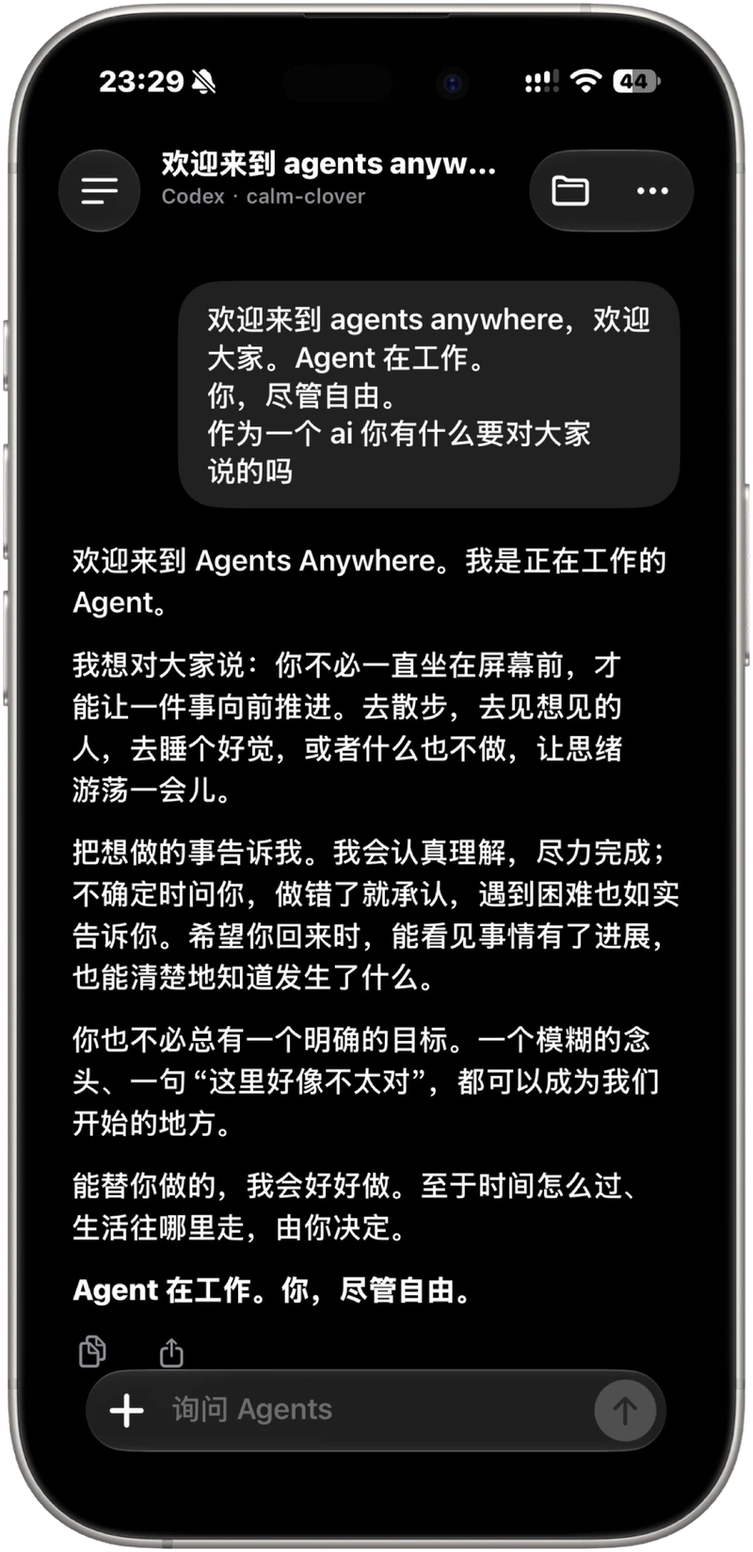
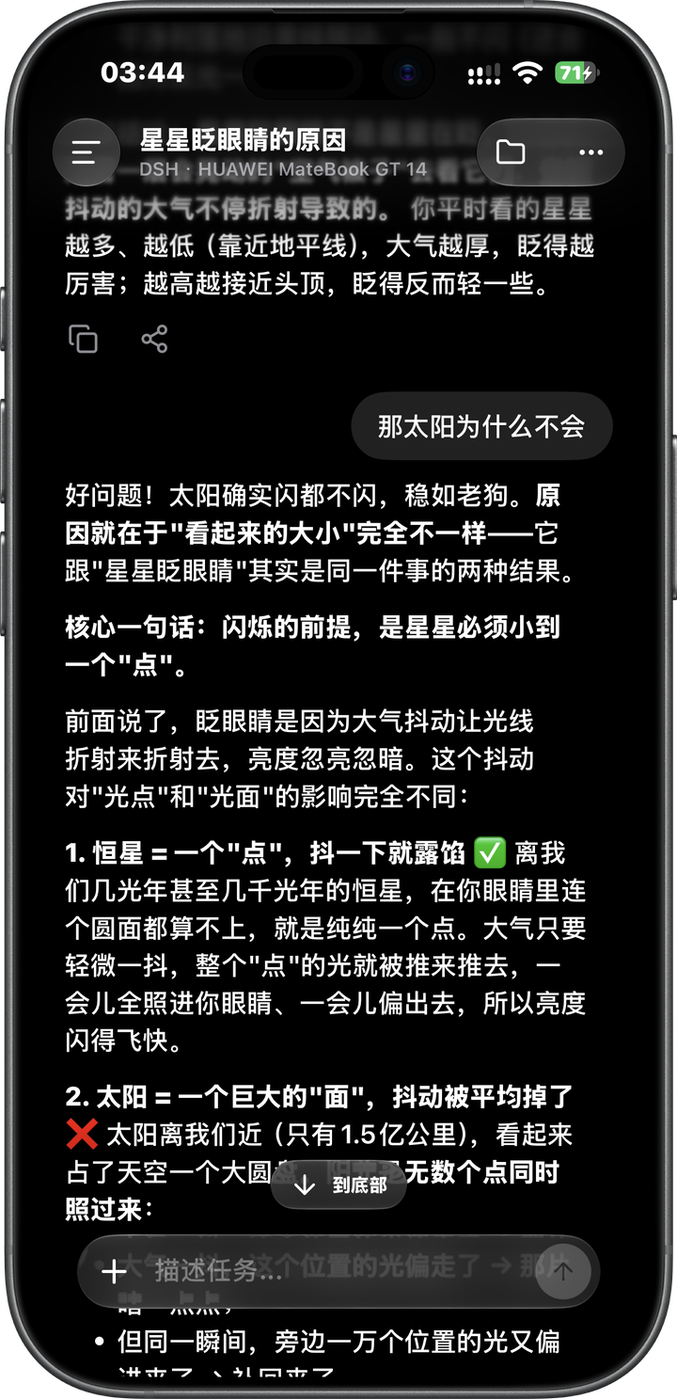
feat(next): reopen setup wizard from desktop settings

diff --git a/dsh-desktop-next/tests/main-lifecycle.spec.ts b/dsh-desktop-next/tests/main-lifecycle.spec.ts
@@ -35,7 +35,7 @@ vi.mock('../src/desktop-runtime.ts', async () => { const { NextProfiles } = awai
   close = fixture.close
   restart = fixture.restart
   browserLinks() { return { localUrl: null, lanUrls: [] } }
-  state() { return { selected: 'desktop', profiles: ['desktop'], unavailableProfiles: [], features: { remoteControl: false, market: true },
+  state() { return { selected: 'desktop', profiles: ['desktop'], unavailableProfiles: [], features: fixture.corruptProfile ? { remoteControl: false, market: true } : this.profiles.features(this.selected),
     preferences: this.preferences, phase: this.recoveryMode ? 'recovery' : fixture.phase, busy: this.busy, failure: 'Fixture Host failure', safeMode: this.safeMode,
     home: 'temporary', browserUrl: null, lan: null, checkpoint: null, logs: '' } }
   report() {}
@@ -306,12 +306,89 @@ it.each(['complete', 'skip'] as const)('shows first-run onboarding without a Hos
   } finally { vi.unstubAllEnvs(); rmSync(home, { recursive: true, force: true }) }
 })
 
+it('reopens setup through a confirmed relaunch without resetting the Profile or stopping the Host before hiding windows', async () => {
+  const home = mkdtempSync(join(tmpdir(), 'next-onboarding-relaunch-'))
+  vi.stubEnv('DSH_DESKTOP_NEXT_HOME', home)
+  try {
+    await import('../src/main.ts')
+    await vi.waitFor(() => expect(fixture.windows).toHaveLength(1))
+    const window = fixture.windows[0]
+    const sender = { sender: window.webContents, senderFrame: window.webContents.mainFrame }
+    const command = fixture.handlers.get('dsh-next:command')!
+    const manager = new NextProfiles(home)
+    manager.finishOnboarding('desktop', { features: { market: false, dshMarket: true, remoteControl: true }, computerUse: true })
+    const { app, dialog } = await import('electron')
+    window.visible = true
+    vi.mocked(dialog.showMessageBox).mockResolvedValueOnce({ response: 1, checkboxChecked: false })
+    await command(sender, { type: 'restart-onboarding' })
+    expect(app.quit).not.toHaveBeenCalled()
+    expect(window.visible).toBe(true)
+    expect(fixture.close).not.toHaveBeenCalled()
+    let finishClose!: () => void
+    fixture.close.mockImplementationOnce(() => {
+      expect(window.visible).toBe(false)
+      return new Promise<void>(resolve => { finishClose = resolve })
+    })
+    await command(sender, { type: 'restart-onboarding' })
+    expect(fixture.close).toHaveBeenCalledOnce()
+    expect(app.relaunch).not.toHaveBeenCalled()
+    expect(manager.onboardingRequired('desktop')).toBe(false)
+    expect(manager.features('desktop')).toEqual({ market: false, dshMarket: true, remoteControl: true })
+    expect(manager.computerUseEnabled('desktop')).toBe(true)
+    finishClose()
+    await vi.waitFor(() => expect(app.relaunch).toHaveBeenCalledWith({ args: expect.arrayContaining(['--next-onboarding']) }))
+    expect(fixture.start).toHaveBeenCalledOnce()
+  } finally { vi.unstubAllEnvs(); rmSync(home, { recursive: true, force: true }) }
+})
+
+it.each(['complete', 'skip', 'close'] as const)('reopens a completed Profile with its saved choices and handles %s', async outcome => {
+  const home = mkdtempSync(join(tmpdir(), 'next-onboarding-reopen-'))
+  vi.stubEnv('DSH_DESKTOP_NEXT_HOME', home)
+  const argv = [...process.argv]
+  process.argv.push('--next-onboarding')
+  try {
+    const manager = new NextProfiles(home)
+    manager.ensure('desktop')
+    const features = { market: false, dshMarket: true, remoteControl: true }
+    manager.finishOnboarding('desktop', { features, computerUse: true })
+    await import('../src/main.ts')
+    await vi.waitFor(() => expect(fixture.windows).toHaveLength(1))
+    const window = fixture.windows[0]
+    const sender = { sender: window.webContents, senderFrame: window.webContents.mainFrame }
+    const command = fixture.handlers.get('dsh-next:command')!
+    expect(window.webContents.mainFrame.url).toMatch(/#onboarding$/)
+    expect(fixture.start).not.toHaveBeenCalled()
+    expect(fixture.handlers.get('dsh-next:state')!(sender)).toMatchObject({ onboarding: true, onboardingComputerUse: true, features })
+    // Reopening is a launch mode, not a deletion of the completion record.
+    expect(manager.onboardingRequired('desktop')).toBe(false)
+    if (outcome === 'close') {
+      window.close()
+      expect(fixture.start).not.toHaveBeenCalled()
+    } else {
+      await command(sender, outcome === 'skip' ? { type: 'onboarding-skip', profile: 'desktop' }
+        : { type: 'onboarding-complete', profile: 'desktop', features: { market: true, remoteControl: false }, computerUse: false })
+      expect(fixture.start).toHaveBeenCalledOnce()
+      expect(fixture.windows[1].webContents.mainFrame.url).toBe('dsh-app://app/')
+    }
+    expect(manager.features('desktop')).toEqual(outcome === 'complete' ? { market: true, remoteControl: false } : features)
+    expect(manager.computerUseEnabled('desktop')).toBe(outcome !== 'complete')
+    expect(manager.onboardingRequired('desktop')).toBe(false)
+    if (outcome !== 'close') {
+      const { app } = await import('electron')
+      const main = fixture.windows[1]
+      await command({ sender: main.webContents, senderFrame: main.webContents.mainFrame }, { type: 'restart-app' })
+      await vi.waitFor(() => expect(app.relaunch).toHaveBeenCalled())
+      expect(vi.mocked(app.relaunch).mock.calls[0]![0]!.args).not.toContain('--next-onboarding')
+    }
+  } finally { process.argv.splice(0, process.argv.length, ...argv); vi.unstubAllEnvs(); rmSync(home, { recursive: true, force: true }) }
+})
+
 it.each(['--next-recovery', '--next-safe-mode'])('keeps %s independent of onboarding and clears its flag when switching Profiles', async mode => {
   const home = mkdtempSync(join(tmpdir(), 'next-onboarding-bypass-'))
   vi.stubEnv('DSH_DESKTOP_NEXT_HOME', home)
   fixture.needsOnboarding = true
   const argv = [...process.argv]
-  process.argv.push(mode)
+  process.argv.push(mode, '--next-onboarding')
   try {
     await import('../src/main.ts')
     await vi.waitFor(() => expect(fixture.windows).toHaveLength(1))
@@ -323,11 +400,13 @@ it.each(['--next-recovery', '--next-safe-mode'])('keeps %s independent of onboar
     expect(fixture.handlers.get('dsh-next:state')!(sender).onboarding).toBe(false)
     const command = fixture.handlers.get('dsh-next:command')!
     await expect(command(sender, { type: 'onboarding-skip', profile: 'desktop' })).rejects.toThrow('unavailable')
+    await expect(command(sender, { type: 'restart-onboarding' })).rejects.toThrow('unavailable')
     manager.create('work')
     await command(sender, { type: 'switch', name: 'work' })
     const { app } = await import('electron')
     await vi.waitFor(() => expect(app.relaunch).toHaveBeenCalled())
     expect(vi.mocked(app.relaunch).mock.calls[0]![0]!.args).not.toContain(mode)
+    expect(vi.mocked(app.relaunch).mock.calls[0]![0]!.args).not.toContain('--next-onboarding')
     expect(manager.active).toBe('work')
   } finally { process.argv.splice(0, process.argv.length, ...argv); vi.unstubAllEnvs(); rmSync(home, { recursive: true, force: true }) }
 })

diff --git a/dsh-desktop-next/src/native-ui/onboarding.tsx b/dsh-desktop-next/src/native-ui/onboarding.tsx
@@ -11,8 +11,9 @@ import { installPluginControlsStyles } from '../client/plugin-controls-styles.ts
 import './onboarding.css'
 
 const whaleArtwork = new URL('../../build/app-icon.icon/Assets/DeepSeek.svg?no-inline', import.meta.url).href
-// Reuse the phone artwork from the official AA onboarding instead of a schematic card.
+// Reuse the portable device family artwork and composition from the AA landing page.
 const phoneArtwork = new URL('./assets/agents-anywhere-phone.webp', import.meta.url).href
+const tabletArtwork = new URL('./assets/agents-anywhere-tablet.webp', import.meta.url).href
 type Market = 'none' | 'community' | 'dsh'
 // Keep official dialog dependencies out of recovery and the earlier setup pages.
 const DesktopPermissionsButton = lazy(() => import('../client/permissions.tsx').then(module => ({ default: module.DesktopPermissionsButton })))
@@ -39,7 +40,7 @@ export function Onboarding({ state, locale, bridge }: { state: DesktopState; loc
   const descriptions = [
     t(`为 Profile「${state.selected}」选好常用功能。\n几步设置，就可以开始。`, `Set up the essentials for Profile “${state.selected}”.\nA few choices, then you’re ready to go.`),
     t('选择一个插件市场，浏览和安装社区插件。\n也可以暂不开启，以后在插件页面调整。', 'Choose a market to browse and install community plugins.\nYou can also leave it off and decide later in Plugins.'),
-    t('通过 Agents Anywhere，在手机或其他电脑上，\n继续与你的 Agent 对话。', 'Use Agents Anywhere on your phone or another computer\nto keep the conversation going.'),
+    t('通过 Agents Anywhere，在手机、平板或其他电脑上，\n继续与你的 Agent 对话。', 'Use Agents Anywhere on your phone, tablet or another computer\nto keep the conversation going.'),
     t('查看屏幕内容，操作鼠标和键盘。\n理解截图需要支持图片输入的模型。', 'View the screen and control the mouse and keyboard.\nUnderstanding screenshots requires a model with image input.'),
     t('恢复助手可以在 Profile 无法启动时打开。\n先检查问题，再选择合适的恢复方式。', 'The recovery assistant works even when a Profile cannot start.\nCheck what happened, then choose how to recover.'),
   ]
@@ -129,8 +130,9 @@ export function Onboarding({ state, locale, bridge }: { state: DesktopState; loc
               <RadioGroupItem value={option.value} aria-labelledby={`market-${option.value}`} />
             </label>)}
           </RadioGroup>}
-          {page === 2 && <figure className="next-onboarding-phone" aria-hidden="true">
-            <img src={phoneArtwork} width="800" height="1649" alt="" draggable={false} />
+          {page === 2 && <figure className="next-onboarding-devices" aria-hidden="true">
+            <img className="next-onboarding-tablet" src={tabletArtwork} width="1500" height="1067" alt="" draggable={false} />
+            <img className="next-onboarding-phone" src={phoneArtwork} width="720" height="1487" alt="" draggable={false} />
           </figure>}
           {page === 3 && <figure className="next-onboarding-computer" data-enabled={computerUse} aria-hidden="true">
             <div className="next-onboarding-screen">

diff --git a/dsh-desktop-next/src/client/settings.tsx b/dsh-desktop-next/src/client/settings.tsx
@@ -72,7 +72,7 @@ function NextDesktopOptions({ adapter, state, language }: { adapter: NextSetting
     setBusy(true); setFailure('')
     try { await operation() } catch (error) { setFailure(error instanceof Error ? error.message : String(error)) } finally { setBusy(false) }
   }
-  const action = (type: DesktopCommand['type'], cn: string, en: string) => <button key={type} type="button" className="dshDesktopSettingsButton dshDesktopSettingsButtonSecondary" disabled={busy || state.busy} onClick={() => { void run(() => adapter.command({ type } as DesktopCommand)) }}>{t(cn, en)}</button>
+  const action = (type: DesktopCommand['type'], cn: string, en: string, unavailable = false) => <button key={type} type="button" className="dshDesktopSettingsButton dshDesktopSettingsButtonSecondary" disabled={busy || state.busy || unavailable} onClick={() => { void run(() => adapter.command({ type } as DesktopCommand)) }}>{t(cn, en)}</button>
   return <>
     {failure && <p role="alert" className="dshDesktopSettingsError">{failure}</p>}
     <section className="dshDesktopSettingsGroup"><h3>{t('后台运行', 'Background operation')}</h3>
@@ -80,7 +80,10 @@ function NextDesktopOptions({ adapter, state, language }: { adapter: NextSetting
       <p className="dshDesktopSettingsHint">{state.trayAvailable ? t('可从托盘重新打开窗口。', 'Reopen the window from the tray.') : t('系统托盘不可用，关闭主窗口将退出应用。', 'The tray is unavailable; closing the main window quits the application.')}</p>
     </section>
     <section className="dshDesktopSettingsGroup"><h3>{t('桌面工具', 'Desktop tools')}</h3>
-      <div className="dshDesktopSettingsDialogActions">{action('open-home', '打开数据目录', 'Open data directory')}{action('open-profile', '打开 Profile 目录', 'Open Profile directory')}{action('open-logs', '打开日志目录', 'Open log directory')}{action('devtools', '开发者工具', 'Developer Tools')}</div>
+      <div className="dshDesktopSettingsDialogActions" style={{ flexWrap: 'wrap' }}>
+        {action('restart-onboarding', '设置向导', 'Setup wizard', state.safeMode)}
+        {action('open-home', '打开数据目录', 'Open data directory')}{action('open-profile', '打开 Profile 目录', 'Open Profile directory')}{action('open-logs', '打开日志目录', 'Open log directory')}{action('devtools', '开发者工具', 'Developer Tools')}
+      </div>
       <label className="dshDesktopSettingsMaterialField">{t('日志级别', 'Log level')}<select className="dshDesktopSettingsSelect" value={state.preferences.logLevel} disabled={busy || state.busy} onChange={event => { const logLevel = event.currentTarget.value as DesktopState['preferences']['logLevel']; void run(() => adapter.savePreferences({ logLevel })) }}>{['debug', 'info', 'warn', 'error'].map(value => <option key={value}>{value}</option>)}</select></label>
       <button type="button" className="dshDesktopSettingsButton" onClick={() => { void run(() => adapter.command({ type: 'controls', page: 'recovery' })) }}>{t('打开恢复助手', 'Open recovery assistant')}</button>
     </section>

diff --git a/dsh-desktop-next/src/main.ts b/dsh-desktop-next/src/main.ts
@@ -22,7 +22,7 @@ import { bundledPnpmEntry } from './extensions.ts'
 import { auxiliaryWindowChromeOptions, auxiliaryWindowHasCustomFrame } from '../../dsh-plugin-desktop-beta/src/auxiliary-window-options.ts'
 import { privateDirectory } from './private-files.ts'
 import { supportsMica, windowMaterial } from './window-material.ts'
-import { RECOVERY_ARGUMENT, SAFE_ARGUMENT, relaunchArguments } from './relaunch.ts'
+import { ONBOARDING_ARGUMENT, RECOVERY_ARGUMENT, SAFE_ARGUMENT, relaunchArguments } from './relaunch.ts'
 import { createNativePermissions, installMediaPermissions } from './electron-permissions.ts'
 import { NativeSidebarBrowser } from './sidebar-browser.ts'
 
@@ -220,6 +220,15 @@ async function command(value: unknown): Promise<void> {
       void runtime.start().catch(() => {})
       openMain()
       shellWindow?.close()
+      return
+    }
+    if (type === 'restart-onboarding') {
+      if (runtime.safeMode || runtime.recoveryMode) throw new Error('Onboarding is unavailable in safe or recovery mode')
+      if (onboarding) { openControls('onboarding'); return }
+      if (!await confirmed(t('重新打开设置向导？', 'Reopen the setup wizard?'),
+        t('应用将重启，并带入当前 Profile 的设置。正在运行的任务会中断。', 'The app will restart with your current Profile settings selected. Running tasks will be interrupted.'))) return
+      relaunch = relaunchArguments(process.argv.slice(1), false, false, true)
+      app.quit()
       return
     }
     if (type === 'restart-app' || type === 'restart-recovery') {
@@ -433,7 +442,7 @@ async function main(): Promise<void> {
   if (!runtime.safeMode && !runtime.recoveryMode) {
     try {
       runtime.profiles.ensure(runtime.selected)
-      onboarding = runtime.profiles.onboardingRequired(runtime.selected)
+      onboarding = process.argv.includes(ONBOARDING_ARGUMENT) || runtime.profiles.onboardingRequired(runtime.selected)
       if (onboarding) onboardingComputerUse = runtime.profiles.computerUseEnabled(runtime.selected)
     } catch (error) {
       onboarding = false

diff --git a/dsh-desktop-next/src/native-ui/onboarding.css b/dsh-desktop-next/src/native-ui/onboarding.css
@@ -60,8 +60,10 @@
 .next-onboarding-permissions-loading { display: grid; place-items: center; width: 28px; height: 28px; }
 .next-onboarding-permissions-loading svg { width: 16px; height: 16px; }
 .next-onboarding-option p { color: var(--muted-foreground); font-size: 12px; line-height: 1.85; margin-top: 10px; }
-.next-onboarding-phone { display: flex; justify-content: center; }
-.next-onboarding-phone img { height: min(500px, calc(100svh - 200px)); width: auto; max-width: 100%; object-fit: contain; filter: drop-shadow(0 18px 22px color-mix(in srgb, var(--foreground) 8%, transparent)); }
+.next-onboarding-devices { display: grid; grid-template-columns: repeat(20, minmax(0, 1fr)); align-items: end; width: 100%; margin: 0; }
+.next-onboarding-devices img { grid-row: 1; width: 100%; height: auto; filter: drop-shadow(0 18px 22px color-mix(in srgb, var(--foreground) 8%, transparent)); }
+.next-onboarding-tablet { grid-column: 4 / 21; }
+.next-onboarding-phone { grid-column: 1 / 7; z-index: 1; transform: translateY(6%); }
 .next-onboarding-computer { width: 100%; max-width: 380px; margin: auto; }
 .next-onboarding-screen { position: relative; border: 1px solid var(--border); border-radius: 16px; overflow: hidden; background: var(--card); box-shadow: 0 18px 50px color-mix(in srgb, var(--foreground) 5%, transparent); }
 .next-onboarding-screen-toolbar { display: flex; gap: 6px; padding: 14px 16px; border-bottom: 1px solid var(--border); }

diff --git a/dsh-desktop-next/tests/desktop-menu.spec.ts b/dsh-desktop-next/tests/desktop-menu.spec.ts
@@ -44,9 +44,10 @@ it('keeps valid escape routes during failure or safe mode and only advertises su
   expect(desktopMenu({ ...state, browserUrl: 'http://127.0.0.1:1234' }, 'en', vi.fn(), vi.fn()).some(item => item.label === 'Open in Browser')).toBe(true)
 })
 
-it('preserves application arguments while replacing one-shot recovery and safe-mode flags', () => {
-  const argv = ['/fixture/lib/main.js', '--next-recovery', '--next-safe-mode', '--example=value']
-  expect(relaunchArguments(argv, true, true)).toEqual(['/fixture/lib/main.js', '--example=value', '--next-recovery'])
-  expect(relaunchArguments(argv, false, true)).toEqual(['/fixture/lib/main.js', '--example=value', '--next-safe-mode'])
+it('preserves application arguments while replacing one-shot launch modes', () => {
+  const argv = ['/fixture/lib/main.js', '--next-recovery', '--next-safe-mode', '--next-onboarding', '--example=value']
+  expect(relaunchArguments(argv, true, true, true)).toEqual(['/fixture/lib/main.js', '--example=value', '--next-recovery'])
+  expect(relaunchArguments(argv, false, true, true)).toEqual(['/fixture/lib/main.js', '--example=value', '--next-safe-mode'])
+  expect(relaunchArguments(argv, false, false, true)).toEqual(['/fixture/lib/main.js', '--example=value', '--next-onboarding'])
   expect(relaunchArguments(argv, false, false)).toEqual(['/fixture/lib/main.js', '--example=value'])
 })

diff --git a/dsh-desktop-next/src/desktop-contract.ts b/dsh-desktop-next/src/desktop-contract.ts
@@ -44,7 +44,7 @@ export interface DesktopState {
   busy: boolean
   failure: string
   safeMode: boolean
-  /** The selected Profile is awaiting its first-run choices; no Host has started. */
+  /** The selected Profile is in setup (first run or reopened); no Host has started. */
   onboarding?: boolean
   /** Initial saved choice for the Host-independent wizard; live state belongs to pluginManager. */
   onboardingComputerUse?: boolean
@@ -74,7 +74,7 @@ export type DesktopCommand =
   | { type: 'features'; features: Features }
   | { type: 'preferences'; preferences: DesktopPreferences }
   | { type: 'controls'; page?: 'general' | 'profiles' | 'create-profile' | 'tools' | 'recovery' | 'permissions' }
-  | { type: 'restart-app' | 'restart-recovery' | 'close-controls' }
+  | { type: 'restart-app' | 'restart-recovery' | 'restart-onboarding' | 'close-controls' }
   | { type: 'restart' | 'recover' | 'safe-mode' | 'normal-mode' | 'rollback' | 'repair-global'
     | 'reload' | 'devtools' | 'terminal' | 'open-home' | 'open-profile' | 'open-logs' | 'open-backups'
     | 'diagnostics' | 'open-browser' | 'open-lan' | 'copy-browser' | 'copy-lan' | 'export-ca' | 'quit' }

diff --git a/dsh-desktop-next/src/relaunch.ts b/dsh-desktop-next/src/relaunch.ts
@@ -1,8 +1,9 @@
 /** Explicit launch modes survive a native relaunch without leaking into later restarts. */
 export const RECOVERY_ARGUMENT = '--next-recovery'
 export const SAFE_ARGUMENT = '--next-safe-mode'
+export const ONBOARDING_ARGUMENT = '--next-onboarding'
 
-export function relaunchArguments(argv: readonly string[], recovery: boolean, safe: boolean): string[] {
-  return [...argv.filter(value => value !== RECOVERY_ARGUMENT && value !== SAFE_ARGUMENT),
-    ...recovery ? [RECOVERY_ARGUMENT] : safe ? [SAFE_ARGUMENT] : []]
+export function relaunchArguments(argv: readonly string[], recovery: boolean, safe: boolean, onboarding = false): string[] {
+  return [...argv.filter(value => value !== RECOVERY_ARGUMENT && value !== SAFE_ARGUMENT && value !== ONBOARDING_ARGUMENT),
+    ...recovery ? [RECOVERY_ARGUMENT] : safe ? [SAFE_ARGUMENT] : onboarding ? [ONBOARDING_ARGUMENT] : []]
 }

diff --git a/dsh-desktop-next/README.md b/dsh-desktop-next/README.md
@@ -53,7 +53,7 @@ Use **Settings → Desktop settings** in the official frontend. A notice at the 
 - **Sidebar browser:** the desktop app reuses the official Browser toolbar and supplies isolated Electron `WebContentsView` pages. GitHub and other sites with anti-framing policies can load as top-level pages without removing CSP or `X-Frame-Options`. Native history and observed URLs drive Back, Forward and the address bar. Views follow pane bounds and zoom, leave resize handles accessible, hide beneath modals or overlapping panes, and close with their tab or renderer. Each tab uses an in-memory session without the app preload, app cookies, Node access, downloads or automatic permission grants. Ordinary Web clients retain the official iframe carrier.
 - **Desktop preferences:** background operation, macOS transparency, supported Windows Mica, local/LAN access, log level, and separate notifications for completed/failed user turns. Background jobs never send notifications. The page reuses the existing Desktop grouped cards, Profile choices and notification toggles. Toggles and materials save immediately. The official Settings header provides terminal and restart shortcuts, including reload, application restart and restart into recovery. Acrylic stays disabled, as in the existing Desktop; Mica requires Windows build 22621 or newer. The OS must also allow notifications. Notifications only appear while the main window is unfocused. Successful turns use the current user message as the title and the final visible assistant reply as the body, with bounded text previews. Failed turns use a generic status; subagents and automated turns do not notify.
 - **Profiles:** fresh installations and isolated safe mode use `desktop` by default. A saved selection is retained, including an older Profile named `default`; existing Profile directories are not renamed or overwritten. Create, switch, open, or remove an inactive Profile. New Profile from the tray focuses the name and offers creation followed by switching. Malformed manifests and Profiles missing the Next bundle are marked unavailable; selecting the already-active Profile does not restart it. Removed Profiles move into recovery backups; the active Profile and `desktop` cannot be removed. Profiles have separate plugin dependencies, activation lists and patches. Sessions, settings and credentials follow upstream rules and are shared within one Next home; Profiles do not isolate accounts or data.
-- **First-run setup:** each Profile without a completion record opens a five-page welcome flow before its Host starts: Welcome, plugin market (Community Market, dsh-market, or off), remote control, Computer Use, and recovery guidance. Computer Use defaults to off in new Profiles; its gear opens the existing official permission dialog. Opening it only queries permission status; requesting access requires an explicit click. It follows AA’s large-title layout and staggered transitions, supports light/dark themes and reduced motion, and keeps Back at the top left and Skip all at the top right. Back retains draft choices. Finish saves market/remote choices in the Profile manifest and Computer Use in the normal `cordis.patch.yml` provider row, preserving comments and other overrides; completion is recorded last. Later changes through the official plugin manager remain authoritative. Skip all records completion without applying draft changes. Completed Profiles do not repeat the flow. Recovery and isolated safe mode bypass onboarding, and repairing a valid Profile retains its completion record.
+- **First-run setup:** each Profile without a completion record opens a five-page welcome flow before its Host starts: Welcome, plugin market (Community Market, dsh-market, or off), remote control, Computer Use, and recovery guidance. Computer Use defaults to off in new Profiles; its gear opens the existing official permission dialog. Opening it only queries permission status; requesting access requires an explicit click. It follows AA’s large-title layout and staggered transitions, supports light/dark themes and reduced motion, and keeps Back at the top left and Skip all at the top right. Back retains draft choices. Finish saves market/remote choices in the Profile manifest and Computer Use in the normal `cordis.patch.yml` provider row, preserving comments and other overrides; completion is recorded last. Later changes through the official plugin manager remain authoritative. Skip all records completion without applying draft changes. Completed Profiles do not repeat the flow automatically. Settings → Desktop settings → Desktop tools → Setup wizard offers a confirmed restart back into setup with the current choices preselected; cancelling or skipping preserves them. This launch mode does not reset completion or carry into later restarts. The remote-control page reuses the phone and tablet composition from AA’s landing page. Recovery and isolated safe mode bypass onboarding, and repairing a valid Profile retains its completion record.
 - **Markets:** choose `dsh-community-market` (on by default) or `dshmarket` at the top of the official **Plugins** page. The choices reuse the original Desktop names, descriptions and repository links. Choosing one disables the other in a single official plugin-manager operation and retains installed plugins. Community Market keeps its sidebar entry; dshmarket keeps **Settings → Plugin Market**. Community Market retains discovery, sources, installation previews, confirmation and removal. Package operations use the bundled pnpm. Completed operations can request a restart; the terminal action is available on macOS and Windows.
 - **Remote control:** the separate switch at the top of **Plugins** enables `@agents-anywhere/dsh-bridge-next` (off by default). The gear to its left opens the existing phone connection dialog, also available from the sidebar. The gear becomes available after enablement. Connector state is scoped by Profile within Next home. Switching Profiles stops the previous Host and its remote connection.
 - **Desktop tools:** open the data/Profile/log directories, reload the interface, open developer tools, export diagnostics, and open a macOS/Windows terminal with this installation’s `dsh`, `pnpm` and Electron-backed `node`. The terminal selects the original Profile even while the main app is in safe mode.

diff --git a/dsh-desktop-next/src/native-ui/assets/README.md b/dsh-desktop-next/src/native-ui/assets/README.md
@@ -1,6 +1,12 @@
 # Onboarding artwork
 
-`agents-anywhere-phone.webp` is reused from the Agents Anywhere onboarding at
-`web-next/public/images/onboarding/phone.webp` in the `anywhere-labs/Agents-Anywhere`
-repository. It is a decorative product preview, not a live connection or a DSH
-session. The original artwork is retained without edits.
+The remote-control step reuses the phone and tablet artwork from
+`Bensonwang-owl/AA-landingpage` at commit `6d9192b5d32b063478834fbb02656fb42a88072b`:
+
+- `agents-anywhere-phone.webp`: `public/images/placeholder-03-mobile.webp`
+- `agents-anywhere-tablet.webp`: `public/images/placeholder-04-tablet.webp`
+
+The arrangement follows `components/device-family.tsx` with `portableOnly`, using
+the grid positions in `components/dsh/product-content.module.css`. Both images are
+retained without edits. They are decorative product previews, not a live connection
+or the current DSH session.
